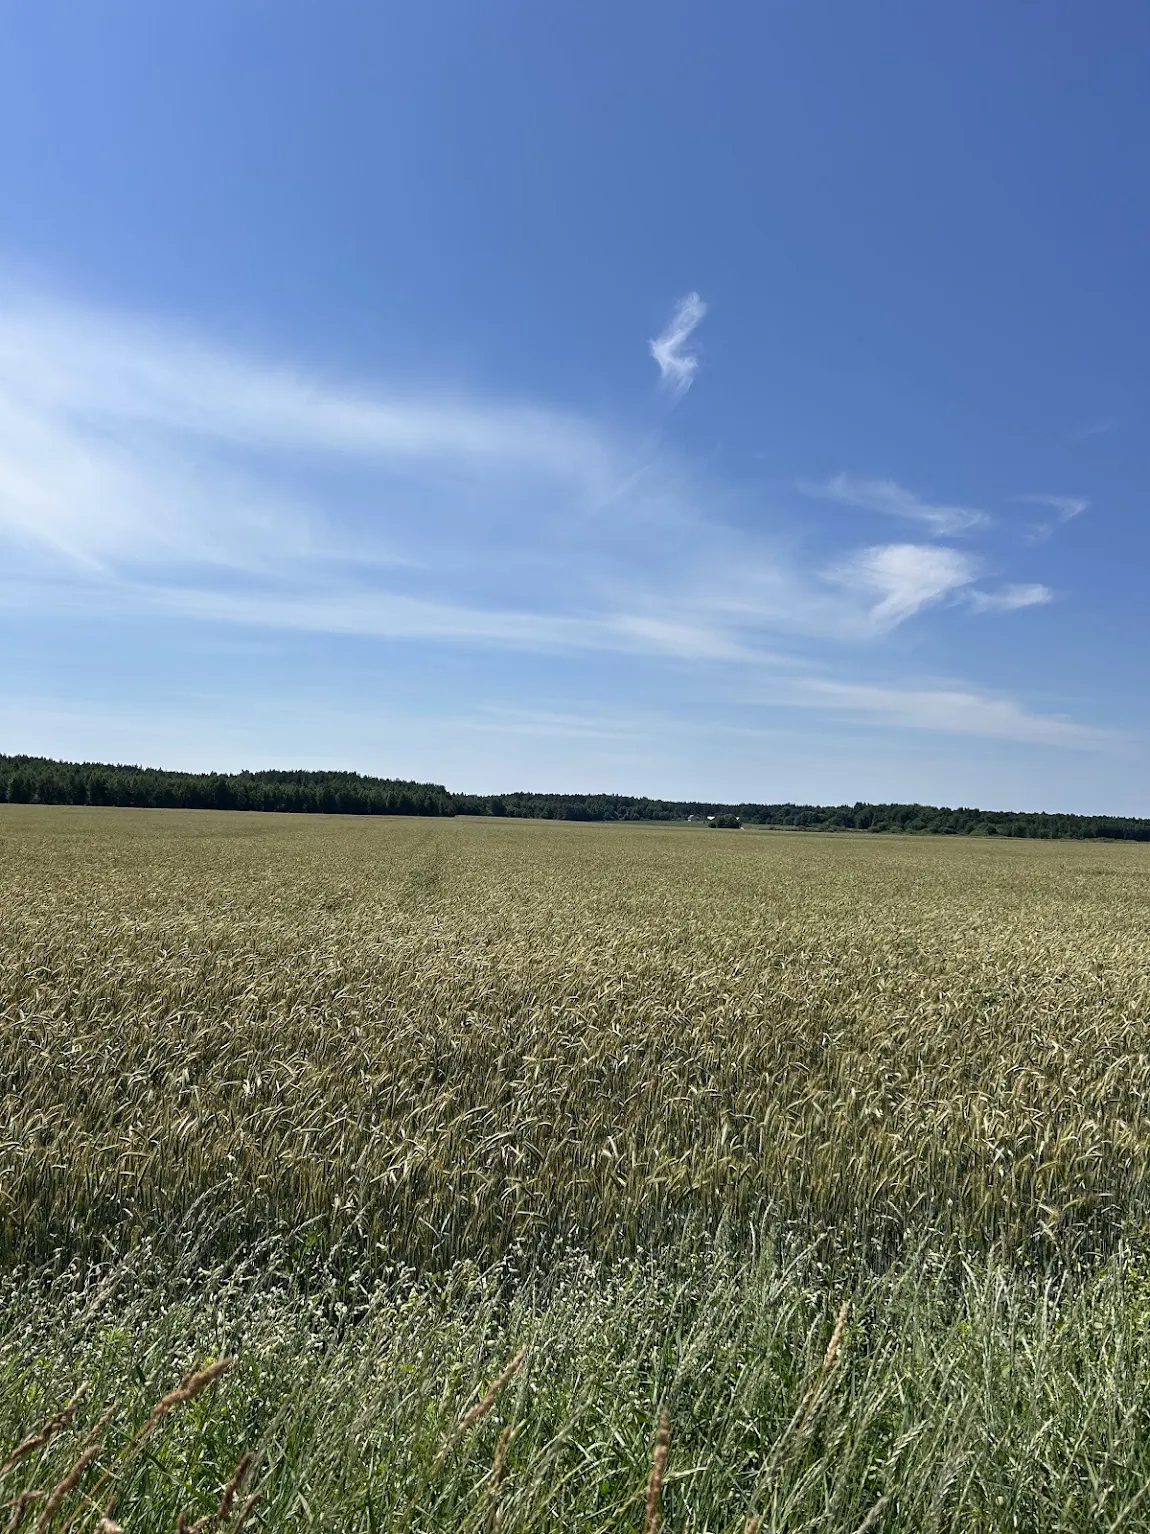
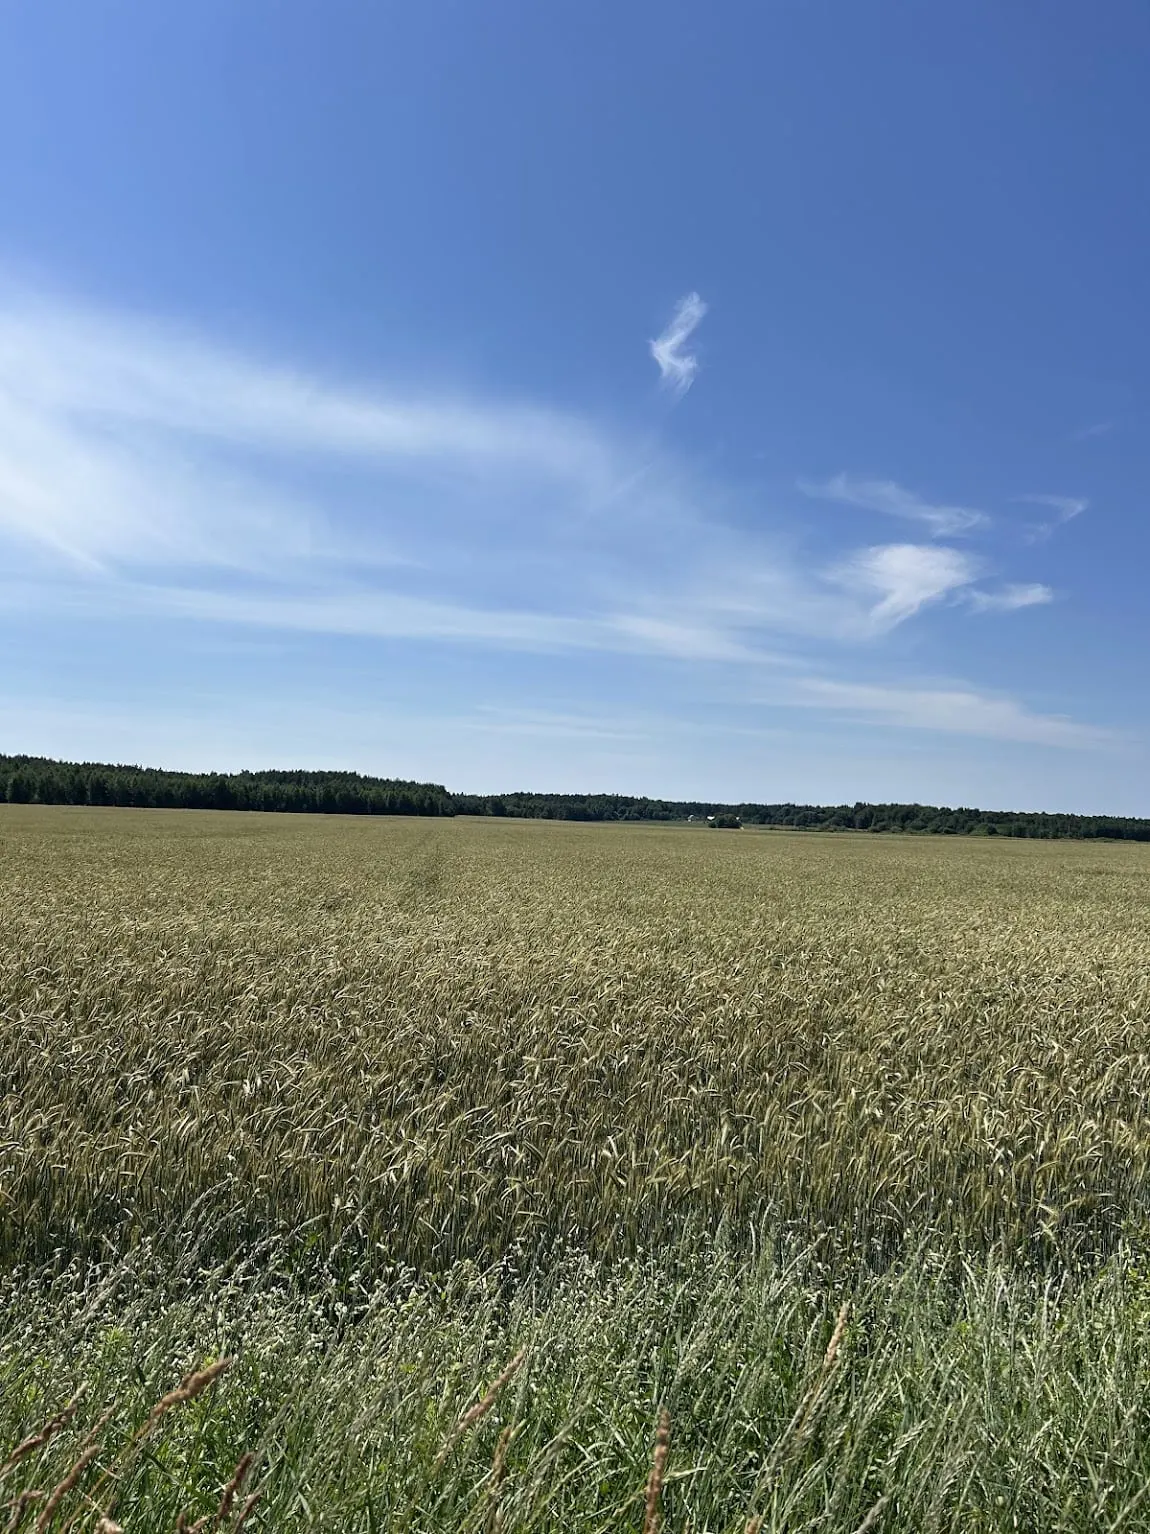
feat(images): downscale photos, drop orphans, resize webp

diff --git a/src/modules/posts/posts/ru/kamni-200.md b/src/modules/posts/posts/ru/kamni-200.md
@@ -2,7 +2,7 @@
 title: Камни 200, или как я решил проверить себя
 date: 2026-07-02
 excerpt: "“Камни 200” — неофициальный гравийный заезд на 200+ км от Минска. Про 209 км гравия, жару, песок, гребёнку, мысли об эвакуации и финиш, до которого я всё же доехал."
-cover: /images/posts/kamni-20-og-ru.png
+cover: /images/posts/kamni-20-og-ru.jpg
 ---
 
 “Камни 200” — это неофициальная гравийная поездка на 200+ км от Минска. Не совсем гонка в строгом смысле, скорее большая велосипедная тусовка для людей, которым хочется проверить себя, покрутить по красивым белорусским дорогам и в какой-то момент задать себе простой вопрос: “А зачем я вообще сюда полез?”
@@ -14,7 +14,7 @@ cover: /images/posts/kamni-20-og-ru.png
 И вот анонс на этот год. Значит, знак.
 
 <figure>
-  <img src="/images/posts/kamni-200/start-bike.png" alt="Велосипед перед стартом Камни 200">
+  <img src="/images/posts/kamni-200/start-bike.jpg" alt="Велосипед перед стартом Камни 200">
   <figcaption>
     Утро перед стартом. Всё уже на велосипеде, назад отступать не очень хочется.
   </figcaption>
@@ -57,14 +57,14 @@ cover: /images/posts/kamni-20-og-ru.png
 Спойлер: не только хорошая.
 
 <figure>
-  <img src="/images/posts/kamni-200/rowing-canal-morning.png" alt="Утренний туман возле воды на старте Камни 200">
+  <img src="/images/posts/kamni-200/rowing-canal-morning.jpg" alt="Утренний туман возле воды на старте Камни 200">
   <figcaption>
     Начало было очень красивым: вода, туман и ещё довольно свежие ноги.
   </figcaption>
 </figure>
 
 <figure>
-  <img src="/images/posts/kamni-200/early-asphalt.png" alt="Асфальтовый участок в начале маршрута Камни 200">
+  <img src="/images/posts/kamni-200/early-asphalt.jpg" alt="Асфальтовый участок в начале маршрута Камни 200">
   <figcaption>
     Первые километры ещё были спокойными: асфальт, утро и ощущение, что всё под контролем.
   </figcaption>
@@ -75,7 +75,7 @@ cover: /images/posts/kamni-20-og-ru.png
 Потом выскочили на Вилейско-Минскую водную систему. Первый настоящий грейдер. Интересное ощущение: едешь 5–10 км, а вид почти не меняется. С одной стороны канал, с другой лес.
 
 <figure>
-  <img src="/images/posts/kamni-200/forest-road.png" alt="Вилейско-Минская водная система на маршруте Камни 200">
+  <img src="/images/posts/kamni-200/forest-road.jpg" alt="Вилейско-Минская водная система на маршруте Камни 200">
   <figcaption>
     Тут был очень красивый лес. Как раз из тех мест, где пока ещё едешь и просто радуешься.
   </figcaption>
@@ -88,7 +88,7 @@ cover: /images/posts/kamni-20-og-ru.png
 Так добрались до первой большой точки — Ильи. В магазине добрали булочек и воды. Солнце уже начинало нормально припекать, а ехать оставалось ещё очень-очень далеко.
 
 <figure>
-  <img src="/images/posts/kamni-200/ilya-stop.png" alt="Точка Илья на маршруте Камни 200">
+  <img src="/images/posts/kamni-200/ilya-stop.jpg" alt="Точка Илья на маршруте Камни 200">
   <figcaption>
     Илья. Первая нормальная остановка, вода, булочки и понимание, что это ещё только начало.
   </figcaption>
@@ -105,28 +105,28 @@ cover: /images/posts/kamni-20-og-ru.png
 Это был примерно 100-й километр трека. Психологически очень странная точка: ты уже проехал много, но до дома осталось примерно столько же.
 
 <figure>
-  <img src="/images/posts/kamni-200/vileika-minsk-canal.png" alt="Вилейско-Минская водная система на маршруте Камни 200">
+  <img src="/images/posts/kamni-200/vileika-minsk-canal.jpg" alt="Вилейско-Минская водная система на маршруте Камни 200">
   <figcaption>
     Вилейско-Минская водная система. Канал сбоку, лес рядом и длинный ровный кусок впереди.
   </figcaption>
 </figure>
 
 <figure>
-  <img src="/images/posts/kamni-200/wild-strawberries-stop.png" alt="Дорога на маршруте Камни 200">
+  <img src="/images/posts/kamni-200/wild-strawberries-stop.jpg" alt="Дорога на маршруте Камни 200">
   <figcaption>
     Небольшая остановка и немного земляники. На такой дистанции даже это уже маленький праздник.
   </figcaption>
 </figure>
 
 <figure>
-  <img src="/images/posts/kamni-200/gravel-before-140.png" alt="Участок маршрута Камни 200 до 140-го километра">
+  <img src="/images/posts/kamni-200/gravel-before-140.jpg" alt="Участок маршрута Камни 200 до 140-го километра">
   <figcaption>
     До 140-го километра ещё хватало сил замечать дорогу и то, что происходит вокруг.
   </figcaption>
 </figure>
 
 <figure>
-  <img src="/images/posts/kamni-200/field-before-140.png" alt="Гравийный участок маршрута Камни 200 до 140-го километра">
+  <img src="/images/posts/kamni-200/field-before-140.jpg" alt="Гравийный участок маршрута Камни 200 до 140-го километра">
   <figcaption>
     Красивое поле из первой половины трека. Такие места очень хорошо держат настроение.
   </figcaption>
@@ -183,7 +183,7 @@ cover: /images/posts/kamni-20-og-ru.png
 Не идеально, не быстро, не без кризисов. Но не сдался и доехал.
 
 <figure>
-  <img src="/images/posts/kamni-200/finish.png" alt="Финиш Камни 200">
+  <img src="/images/posts/kamni-200/finish.jpg" alt="Финиш Камни 200">
   <figcaption>
     Финиш. Момент, в котором уже не так важны цифры. Важно, что ты всё же доехал.
   </figcaption>
@@ -192,7 +192,7 @@ cover: /images/posts/kamni-20-og-ru.png
 По моему треку получилось:
 
 <figure>
-  <img src="/images/posts/kamni-200/ride-stats.png" alt="Статистика поездки Камни 200: 208,72 км, 11:35:58, 1 647 м набора">
+  <img src="/images/posts/kamni-200/ride-stats.jpg" alt="Статистика поездки Камни 200: 208,72 км, 11:35:58, 1 647 м набора">
   <figcaption>
     Фактическая статистика моего трека: немного лишних километров, почти 12 часов в дороге и нормальный такой набор.
   </figcaption>

diff --git a/src/modules/posts/posts/kamni-200.md b/src/modules/posts/posts/kamni-200.md
@@ -2,7 +2,7 @@
 title: Камні 200, або як я вырашыў праверыць сябе
 date: 2026-07-02
 excerpt: "“Камні 200” — неафіцыйны гравійны заезд на 200+ км ад Мінска. Пра 209 км гравію, спякоту, пясок, грабёнку, думкі пра эвакуацыю і фініш, да якога ўсё ж даехаў."
-cover: /images/posts/kamni-20-og-by.png
+cover: /images/posts/kamni-20-og-by.jpg
 ---
 
 “Камні 200” — гэта неафіцыйная гравійная паездка на 200+ км ад Мінска. Не зусім гонка ў строгім сэнсе, хутчэй вялікая веласіпедная тусоўка для людзей, якім хочацца праверыць сябе, пакруціць па прыгожых беларускіх дарогах і ў нейкі момант задаць сабе простае пытанне: “А навошта я ўвогуле сюды палез?”
@@ -14,7 +14,7 @@ cover: /images/posts/kamni-20-og-by.png
 І вось анонс на гэты год. Значыць, знак.
 
 <figure>
-  <img src="/images/posts/kamni-200/start-bike.png" alt="Веласіпед перад стартам Камні 200">
+  <img src="/images/posts/kamni-200/start-bike.jpg" alt="Веласіпед перад стартам Камні 200">
   <figcaption>
     Раніца перад стартам. Усё ўжо на веласіпедзе, назад адступаць не вельмі хочацца.
   </figcaption>
@@ -57,14 +57,14 @@ cover: /images/posts/kamni-20-og-by.png
 Спойлер: не толькі добрая.
 
 <figure>
-  <img src="/images/posts/kamni-200/rowing-canal-morning.png" alt="Ранішні туман каля вады на старце Камні 200">
+  <img src="/images/posts/kamni-200/rowing-canal-morning.jpg" alt="Ранішні туман каля вады на старце Камні 200">
   <figcaption>
     Пачатак быў вельмі прыгожы: вада, туман і яшчэ даволі свежыя ногі.
   </figcaption>
 </figure>
 
 <figure>
-  <img src="/images/posts/kamni-200/early-asphalt.png" alt="Асфальтавы ўчастак на пачатку маршруту Камні 200">
+  <img src="/images/posts/kamni-200/early-asphalt.jpg" alt="Асфальтавы ўчастак на пачатку маршруту Камні 200">
   <figcaption>
     Першыя кіламетры яшчэ былі спакойныя: асфальт, раніца і адчуванне, што ўсё пад кантролем.
   </figcaption>
@@ -75,7 +75,7 @@ cover: /images/posts/kamni-20-og-by.png
 Потым выскачылі на Вілейска-Мінскую водную сістэму. Першы сапраўдны грэйдар. Цікавае адчуванне: едзеш 5–10 км, а від амаль не мяняецца. З аднаго боку канал, з другога лес.
 
 <figure>
-  <img src="/images/posts/kamni-200/forest-road.png" alt="Вілейска-Мінская водная сістэма на маршруце Камні 200">
+  <img src="/images/posts/kamni-200/forest-road.jpg" alt="Вілейска-Мінская водная сістэма на маршруце Камні 200">
   <figcaption>
     Тут быў вельмі прыгожы лес. Якраз з тых месцаў, дзе пакуль яшчэ едзеш і проста радуешся.
   </figcaption>
@@ -88,7 +88,7 @@ cover: /images/posts/kamni-20-og-by.png
 Так дабраліся да першай вялікай кропкі — Ільі. У краме дабралі булачак і вады. Сонца ўжо пачынала нармальна прыпякаць, а ехаць заставалася яшчэ вельмі-вельмі далёка.
 
 <figure>
-  <img src="/images/posts/kamni-200/ilya-stop.png" alt="Кропка Ілья на маршруце Камні 200">
+  <img src="/images/posts/kamni-200/ilya-stop.jpg" alt="Кропка Ілья на маршруце Камні 200">
   <figcaption>
     Ілья. Першы нармальны прыпынак, вада, булачкі і разуменне, што гэта яшчэ толькі пачатак.
   </figcaption>
@@ -105,28 +105,28 @@ cover: /images/posts/kamni-20-og-by.png
 Гэта быў прыкладна 100-ы кіламетр трэка. Псіхалагічна вельмі дзіўная кропка: ты ўжо праехаў шмат, але да дома засталося прыкладна столькі ж.
 
 <figure>
-  <img src="/images/posts/kamni-200/vileika-minsk-canal.png" alt="Вілейска-Мінская водная сістэма на маршруце Камні 200">
+  <img src="/images/posts/kamni-200/vileika-minsk-canal.jpg" alt="Вілейска-Мінская водная сістэма на маршруце Камні 200">
   <figcaption>
     Вілейска-Мінская водная сістэма. Канал збоку, лес побач і доўгі роўны кавалак наперадзе.
   </figcaption>
 </figure>
 
 <figure>
-  <img src="/images/posts/kamni-200/wild-strawberries-stop.png" alt="Дарога на маршруце Камні 200">
+  <img src="/images/posts/kamni-200/wild-strawberries-stop.jpg" alt="Дарога на маршруце Камні 200">
   <figcaption>
     Невялікі прыпынак і крыху суніц. На такой дыстанцыі нават гэта ўжо маленькае свята.
   </figcaption>
 </figure>
 
 <figure>
-  <img src="/images/posts/kamni-200/gravel-before-140.png" alt="Участак маршруту Камні 200 да 140-га кіламетра">
+  <img src="/images/posts/kamni-200/gravel-before-140.jpg" alt="Участак маршруту Камні 200 да 140-га кіламетра">
   <figcaption>
     Да 140-га кіламетра яшчэ хапала сіл заўважаць дарогу і тое, што адбываецца вакол.
   </figcaption>
 </figure>
 
 <figure>
-  <img src="/images/posts/kamni-200/field-before-140.png" alt="Гравійны ўчастак маршруту Камні 200 да 140-га кіламетра">
+  <img src="/images/posts/kamni-200/field-before-140.jpg" alt="Гравійны ўчастак маршруту Камні 200 да 140-га кіламетра">
   <figcaption>
     Прыгожае поле з першай паловы трэка. Такія месцы вельмі добра трымаюць настрой.
   </figcaption>
@@ -183,7 +183,7 @@ cover: /images/posts/kamni-20-og-by.png
 Не ідэальна, не хутка, не без крызісаў. Але не здаўся і даехаў.
 
 <figure>
-  <img src="/images/posts/kamni-200/finish.png" alt="Фініш Камні 200">
+  <img src="/images/posts/kamni-200/finish.jpg" alt="Фініш Камні 200">
   <figcaption>
     Фініш. Момант, у якім ужо не так важныя лічбы. Важна, што ты ўсё ж даехаў.
   </figcaption>
@@ -192,7 +192,7 @@ cover: /images/posts/kamni-20-og-by.png
 Па маім трэку атрымалася:
 
 <figure>
-  <img src="/images/posts/kamni-200/ride-stats.png" alt="Статыстыка паездкі Камні 200: 208,72 км, 11:35:58, 1 647 м набору">
+  <img src="/images/posts/kamni-200/ride-stats.jpg" alt="Статыстыка паездкі Камні 200: 208,72 км, 11:35:58, 1 647 м набору">
   <figcaption>
     Фактычная статыстыка майго трэка: крыху лішніх кіламетраў, амаль 12 гадзін у дарозе і нармальны такі набор.
   </figcaption>
